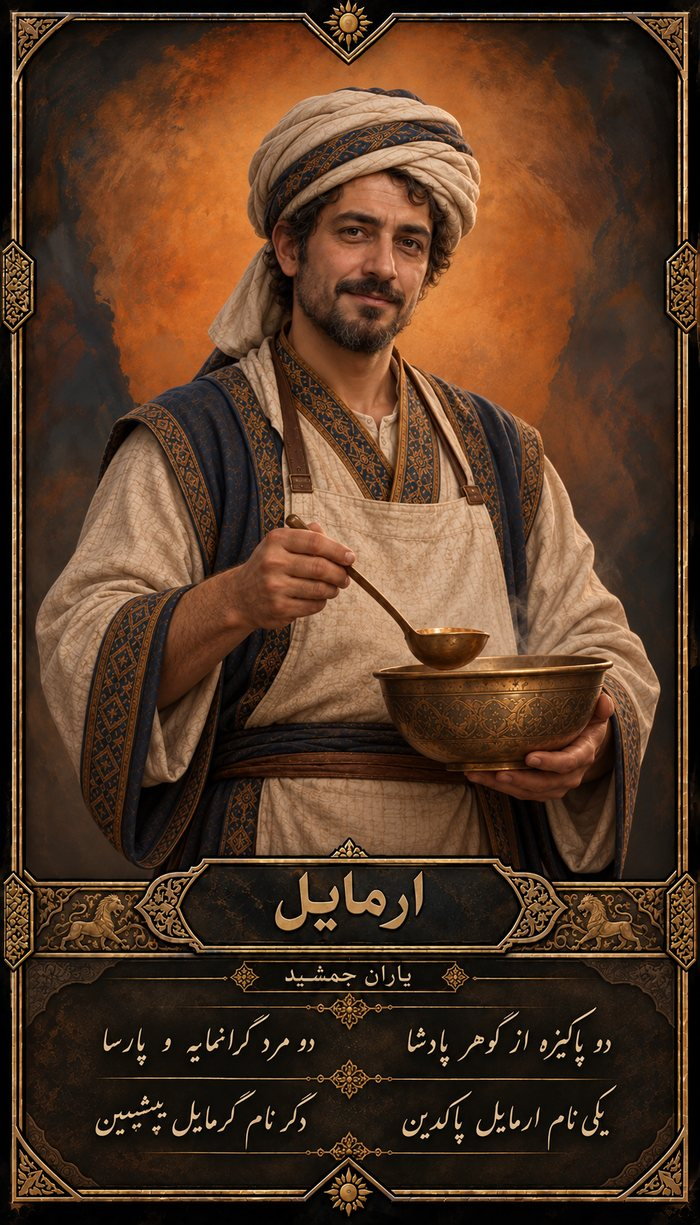
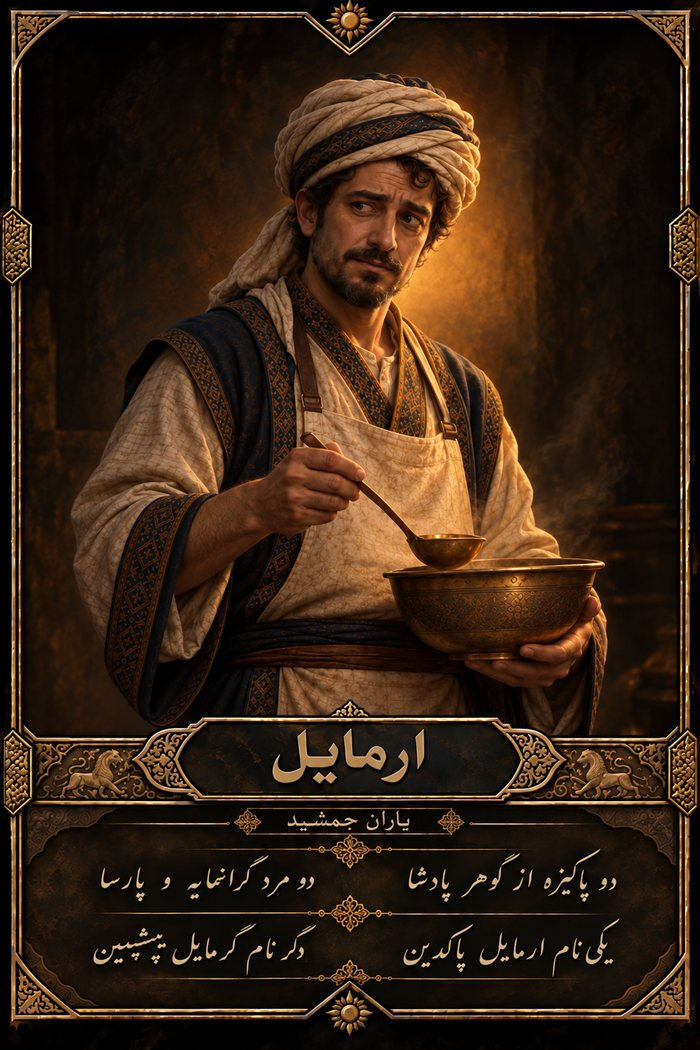
کارتهای جدید ارمایل (با شعر اصلاحشده) و کاوه

diff --git a/WORKLOG.md b/WORKLOG.md
@@ -6,6 +6,18 @@
 
 ---
 
+## ۴ اکتبر ۲۰۲۶ — کارتهای تازهی ارمایل و کاوه
+
+کاربر دو کارتِ بازطراحیشده را در `کاراکتر ها/` گذاشت. از ۲۲ فایل فقط این دو تاریخِ جدید
+داشتند (`کاوه.png` از ۳ اکتبر، `ارمایل.png` از ۴ اکتبر). همان خطلوله: JPEG عرض ۷۰۰ کیفیت ۸۴،
+overwrite روی `assets/card-kaveh.jpg` و `assets/card-armayil.jpg` (نگاشت `ROLE_CARD_IMG` از قبل بود).
+
+**نکته:** نسخهی اولِ کارتِ ارمایل مصرعِ آخر را «وگر نام گرمایل پیشبین» داشت؛ من این را
+غلطِ املایی/ضبطی نسبت به فردوسی («دگر نام گرمایل پیشبین») تشخیص دادم و گفتم. کاربر کارت را
+اصلاح کرد و نسخهی دوم (۴ اکتبر ۱۰:۴۰) جایگزین شد؛ مصرع حالا «دگر…» است.
+
+---
+
 ## ۲ اکتبر ۲۰۲۶ — دفترچهی نهایی داخل اپ
 
 **کامیت:** `14d0280`
